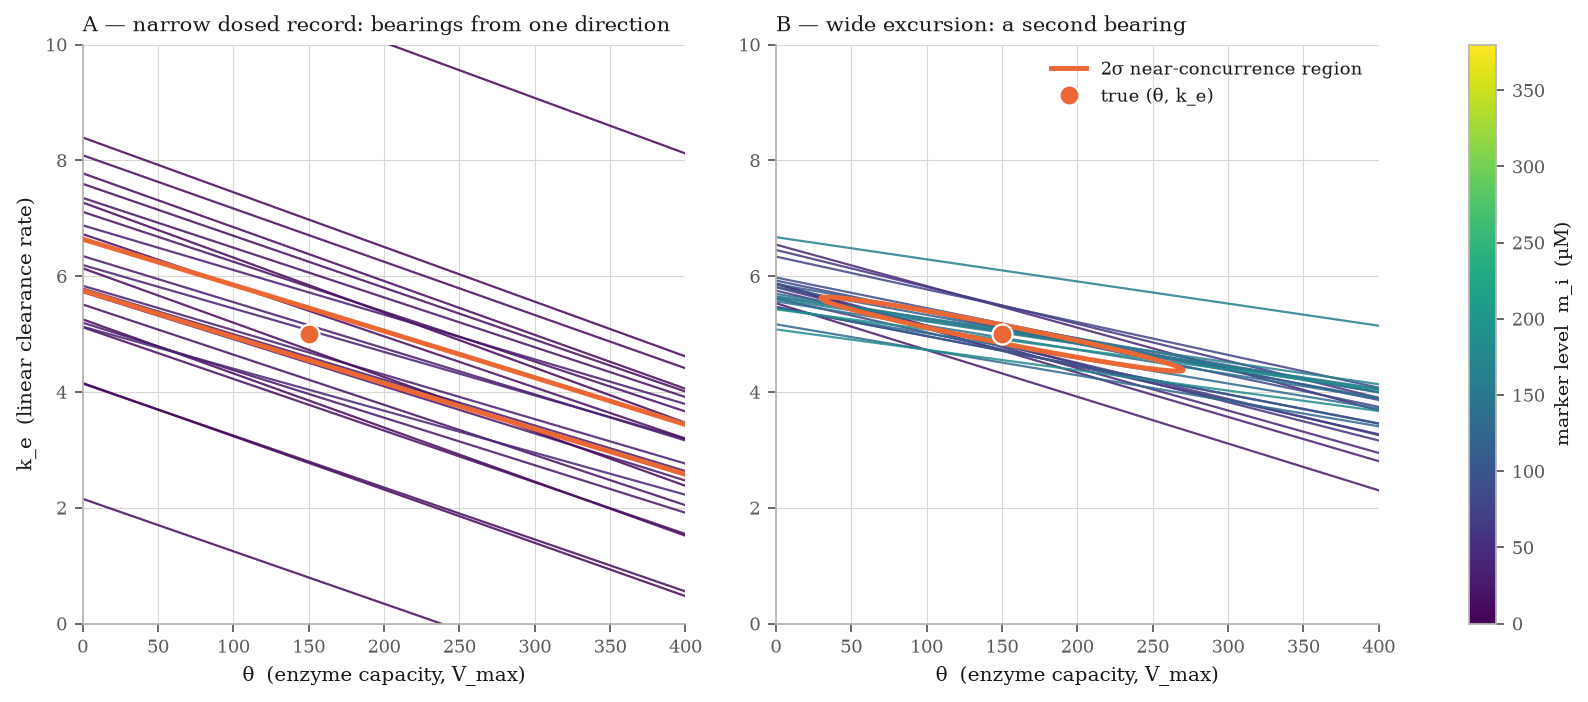
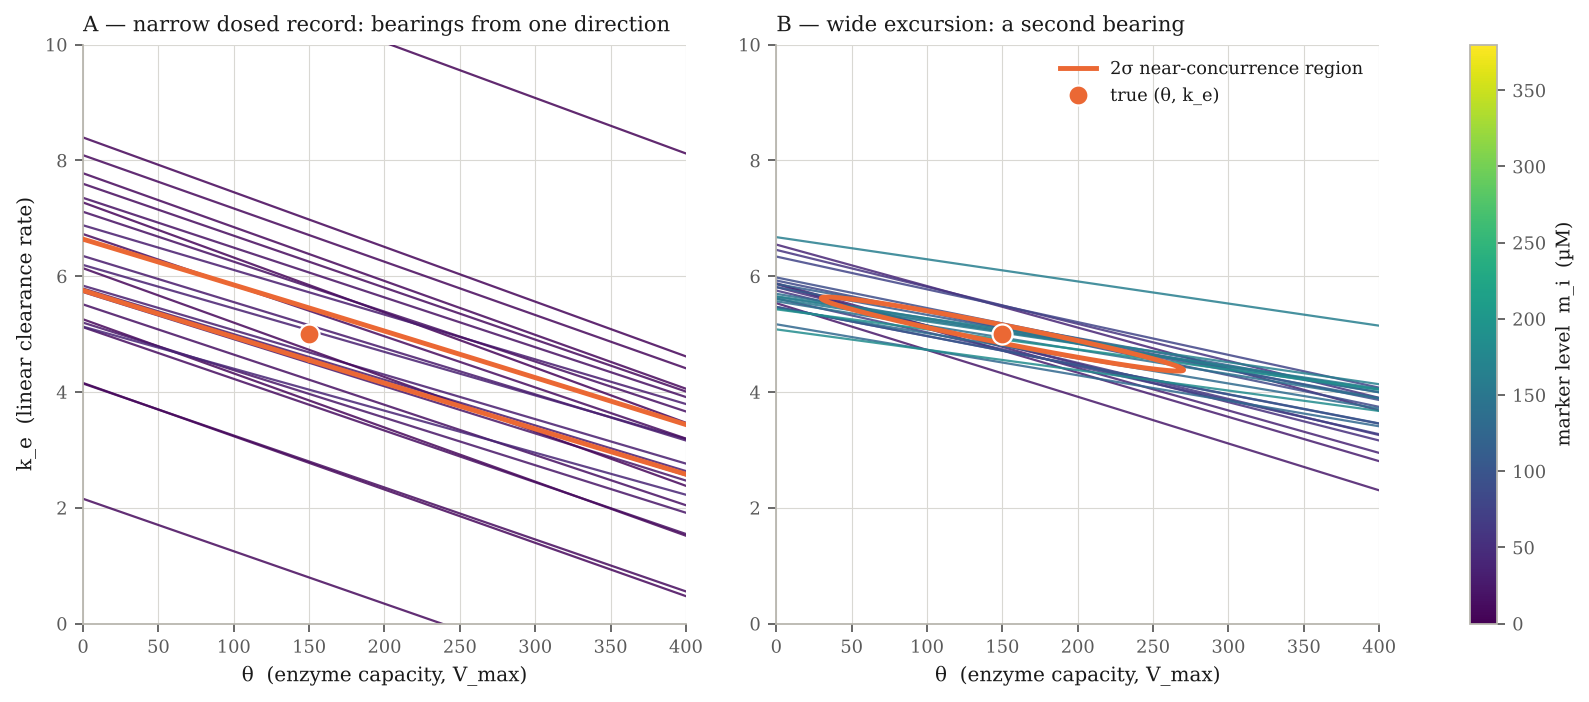
round 19: the 21-day knife-edge depends on Model C's unmeasured shape (t53); repro fixes
R-S (t53_crossing_shape.py): the 3.5452 d crossing is computed at K_c = 100,
which models.py calls ARBITRARY. Carried through the repo's own shape sweeps
(model_C/run.py shape_sensitivity and collapse_check ranges, R0 re-derived),
the 21-day crossing moves 3.30-3.97 d. The measured 3.6 d clears it in 80% of
swept sets and fails at K_c <= 50 or M_i = 150; the 4.3 d liver estimate
clears it in all. 14- and 15-day crossings stay <= 2.96 / 3.11 d, so those
conclusions are unaffected. Changed-claims row, lead-paragraph flag, and the
knife-edge figure title now state the K_c condition.

Reproducibility fixes found while re-running under the README's -W error loop:
- t51_pencil_geometry.py: docstring ASCII art had an invalid escape (\_),
  a SyntaxError under -W error; made it a raw string (output unchanged).
- r18_figs.py: the pencil figure triggered matplotlib's tight-layout warning;
  its gridspec now owns the layout (figure unchanged).

Claude-Session: https://claude.ai/code/session_01G79QbsErESgg1CQtzvtK3x

diff --git a/audit/brief_2026-10-01/t53_crossing_shape.py b/audit/brief_2026-10-01/t53_crossing_shape.py
@@ -1,0 +1,105 @@
+"""
+Round 19: does the 21-day knife-edge survive Model C's unmeasured shape constants?
+
+The 3.5452 d crossing (R-N) is where the 21-day trough increment equals Model C's
+intrinsic critical capacity, theta_crit_int = 150.775 at the repo's constants. That
+threshold depends on three constants of the carnitine channel that nobody has
+measured: K_c (models.py: "ARBITRARY. There is no measurement behind it"), M_i and
+rho_0. The repository already sweeps them (model_C/run.py: shape_sensitivity,
+collapse_check), re-deriving R0 each time so the alternative route still peaks at
+500. It never carried that sweep into the dosing crossing. This script does.
+
+Same-rate trough convention as t44/t48/t50: Delta_trough(tau) = D14 (tau/14) x/(1-x),
+x = exp(-lambda tau), lambda = ln2 / half-life.
+
+Two readings:
+  * the repo's one-at-a-time sweep, each constant over the range it lists;
+  * a joint sweep over the same ranges collapse_check uses (log-uniform K_c and M_i,
+    uniform rho_0). The share of sampled sets in which a half-life clears the line
+    is a SENSITIVITY summary over the admissible box, not a probability: nothing
+    measured puts a distribution on these constants.
+"""
+import sys
+from dataclasses import replace
+from pathlib import Path
+
+import numpy as np
+from scipy.optimize import brentq
+
+sys.path.insert(0, str(Path(__file__).resolve().parents[2] / "src"))
+import model_C.run as MC  # noqa: E402
+
+D14, TAU0 = 6000.0, 14.0
+MEASURED, CENTRAL = 3.6, 4.3
+
+
+def trough(tau, thalf):
+    lam = np.log(2.0) / thalf
+    x = np.exp(-lam * tau)
+    return D14 * (tau / TAU0) * x / (1.0 - x)
+
+
+def crossing(thc, tau=21):
+    """Half-life at which Delta_trough(tau) = theta_crit."""
+    return brentq(lambda t: trough(tau, t) - thc, 0.3, 30.0)
+
+
+def main():
+    base = MC.theta_crit_intrinsic(MC.PC, MC.S_BASE)
+    print("=" * 92)
+    print("  ROUND 19. THE 21-DAY CROSSING UNDER MODEL C'S UNMEASURED SHAPE CONSTANTS")
+    print("=" * 92)
+    print(f"""
+  repo constants (K_c=100, M_i=300, rho_0=0.5): theta_crit_int = {base:.3f}
+    crossing half-life: 14-day {crossing(base, 14):.3f} d   15-day {crossing(base, 15):.3f} d   21-day {crossing(base):.4f} d
+""")
+    print("  ONE AT A TIME (model_C/run.py shape_sensitivity, R0 re-derived each time):")
+    print(f"    {'constant':>8} {'value':>7} {'theta_crit':>10} {'21-d crossing':>13} {'3.6 d clears?':>14} {'4.3 d clears?':>14}")
+    for name, rec in MC.shape_sensitivity().items():
+        for v, tc_cal, _tc_raw, _mg in rec:
+            if not np.isfinite(tc_cal):
+                continue
+            c = crossing(tc_cal)
+            print(f"    {name:>8} {v:>7} {tc_cal:>10.1f} {c:>12.3f}d {('yes' if MEASURED > c else 'NO'):>14}"
+                  f" {('yes' if CENTRAL > c else 'NO'):>14}")
+
+    rng = np.random.default_rng(0)
+    tcs = []
+    for _ in range(300):
+        q = replace(MC.PC, Kc=float(10 ** rng.uniform(1.4, 2.9)),
+                    Mi=float(10 ** rng.uniform(2.0, 3.1)),
+                    rho0=float(rng.uniform(0.35, 1.0)))
+        q = replace(q, R0=MC.R0_for_peak(q))
+        t = MC.theta_crit_intrinsic(q, MC.S_BASE)
+        if np.isfinite(t):
+            tcs.append(t)
+    tcs = np.array(tcs)
+    c14 = np.array([crossing(t, 14) for t in tcs])
+    c15 = np.array([crossing(t, 15) for t in tcs])
+    c21 = np.array([crossing(t) for t in tcs])
+    print(f"""
+  JOINT SWEEP over collapse_check's ranges (K_c 25-794, M_i 100-1259, rho_0 0.35-1.0;
+  {len(tcs)} sets with a finite threshold, seed 0):
+    theta_crit_int           {tcs.min():6.1f} .. {tcs.max():6.1f}   (median {np.median(tcs):.1f})
+    14-day crossing          {c14.min():6.3f} .. {c14.max():6.3f} d
+    15-day crossing          {c15.min():6.3f} .. {c15.max():6.3f} d
+    21-day crossing          {c21.min():6.3f} .. {c21.max():6.3f} d (median {np.median(c21):.3f})
+    sets in which the half-life clears the 21-day line:
+        measured 3.6 d       {np.mean(MEASURED > c21):.0%}
+        liver estimate 4.3 d {np.mean(CENTRAL > c21):.0%}
+    sets in which 3.6 d clears the 14- and 15-day lines: {np.mean(MEASURED > c14):.0%} / {np.mean(MEASURED > c15):.0%}
+
+  READING. The 14- and 15-day conclusions do not depend on Model C's unmeasured
+  shape: their crossings stay below 3.0 and 3.2 d, far under the measured 3.6 d.
+  The 21-day conclusion at 3.6 d does. The crossing itself moves from about 3.3 to
+  4.0 d across the admissible constants, which is wider than the 0.055 d (1.5 %)
+  by which 3.6 d clears the line at K_c = 100. At K_c <= 50, or M_i = 150, the
+  measured 3.6 d falls on the needs-theta side. The liver estimate of 4.3 d clears
+  the line for every sampled set. So the knife-edge has two blades: the true liver
+  half-life, and the carnitine channel's shape constants. The first is a data
+  request; the second is a model assumption no data in the repository can fix.
+""")
+
+
+if __name__ == "__main__":
+    main()

diff --git a/audit/brief_2026-10-01/r18_figs.py b/audit/brief_2026-10-01/r18_figs.py
@@ -55,6 +55,7 @@ def _wls(Q):
 # =============================================================== figure 1
 def fig_pencil():
     fig = plt.figure(figsize=(11.4, 4.7))
+    fig.set_layout_engine("none")       # the colourbar column is laid out by the gridspec
     gs = fig.add_gridspec(1, 3, width_ratios=[1, 1, 0.045], wspace=0.22)
     ax = [fig.add_subplot(gs[0]), fig.add_subplot(gs[1])]
     cax = fig.add_subplot(gs[2])
@@ -162,8 +163,8 @@ def fig_knife():
     ax.set_xlim(3.0, 6.0); ax.set_ylim(-220, 760)
     ax.set_xlabel("PCC protein half-life  (days)")
     ax.set_ylabel("safety margin  μ = Δ_trough(21) − θ_crit  (µM/d)")
-    ax.set_title("The 21-day step turns on the PCC protein half-life; the measured value\n"
-                 "is 1.5 % (in half-life) past the crossing, a +10 µM/d margin",
+    ax.set_title("The 21-day step turns on the PCC protein half-life; the measured value is\n"
+                 "1.5 % (in half-life) past the crossing, +10 µM/d (Model C at its repo constants, K_c = 100)",
                  fontsize=9.5)
     ax.legend(loc="upper left", fontsize=7.8, framealpha=0.92)
     P.finish(ax)

diff --git a/audit/brief_2026-10-01/t51_pencil_geometry.py b/audit/brief_2026-10-01/t51_pencil_geometry.py
@@ -1,4 +1,4 @@
-"""
+r"""
 Round 18: the PI's line-pencil geometry, and what it adds.
 
 Each steady-state draw is a LINE in the (theta, k_e) plane. From the Model-A

diff --git a/audit/brief_2026-10-01/REPORT.md b/audit/brief_2026-10-01/REPORT.md
@@ -67,7 +67,7 @@ This inequality is the whole decision, and it is worth seeing before the measure
 
 ![the 21-day dosing step as a safety margin crossing zero at the PCC protein half-life](fig/r18_knife.png)
 
-The y-axis is the **safety margin** μ = Δ_trough(21) − θ_crit, so the decision is a single **zero crossing**: μ > 0 (**right** of 3.5452 d) books the 21-day interval with **no knowledge of capacity** — the drug trough alone clears θ_crit for any residual θ ≥ 0 — and μ < 0 (**left**) needs θ, which is unmeasurable (the rest of this section). The repo's assumed 3.5 d sits just below zero (margin −8 µM/d); the one measured human value — **3.6 d** (Chandler & Ballard 1985) — sits just above (margin +10 µM/d). The two differ by **0.055 d — 1.5 % in half-life** (the only percentage on the figure is an x-axis, half-life difference, not the vertical margin gap). The compartment-anchored estimate (~4.3 d, R-P) with its 3–6 d bridging band straddles the crossing. That is the whole project in one image: **the decision does not need capacity — it needs this half-life, and the measured value sits ~1.5 % (in half-life) past the threshold that flips it.** Everything else in the report is how that figure was earned — the measurement questions above (why capacity itself is out of reach) and the interval arc that follows (R-J → R-P), which reduces the booking to λ and then measures it.
+The y-axis is the **safety margin** μ = Δ_trough(21) − θ_crit, so the decision is a single **zero crossing**: μ > 0 (**right** of 3.5452 d) books the 21-day interval with **no knowledge of capacity** — the drug trough alone clears θ_crit for any residual θ ≥ 0 — and μ < 0 (**left**) needs θ, which is unmeasurable (the rest of this section). The repo's assumed 3.5 d sits just below zero (margin −8 µM/d); the one measured human value — **3.6 d** (Chandler & Ballard 1985) — sits just above (margin +10 µM/d). The two differ by **0.055 d — 1.5 % in half-life** *(at Model C's K_c = 100; across its unmeasured shape constants the crossing itself moves 3.30–3.97 d, R-S)* (the only percentage on the figure is an x-axis, half-life difference, not the vertical margin gap). The compartment-anchored estimate (~4.3 d, R-P) with its 3–6 d bridging band straddles the crossing. That is the whole project in one image: **the decision does not need capacity — it needs this half-life, and the measured value sits ~1.5 % (in half-life) past the threshold that flips it.** Everything else in the report is how that figure was earned — the measurement questions above (why capacity itself is out of reach) and the interval arc that follows (R-J → R-P), which reduces the booking to λ and then measures it.
 
 *Why this figure leads, and not the identifiability pencil of R-Q: the knife-edge's x-axis is the only quantity in this report that exists and has been measured, while the pencil's axes (θ, k_e) are exactly what the report concludes you cannot and need not measure.*
 
@@ -126,6 +126,7 @@ Several round-1 claims were overturned by later rounds. The causes:
 | "λ half-life 3.5 d gives the decision comfortable margin" (implicit, rounds 11–14 at the assumed value) | **the measured human value (3.6 d) sits on the thresholds, and the correction runs toward them** (round-15, R-N, `t48`): 21-day safe-for-all flips at 3.55 d (round-13's 3.5-d "needs active protocol" → human 3.6-d "free for all", a ~1 % knife-edge); coarse grid clears 3.32 by 8 %; every interval headline flips inside the 3-fold measurement band (1.2–11.5 d), so λ is the dominant model uncertainty *(the "hepatic likely faster" clause reversed by R-P, round 17: mitochondrial-matrix comparator → hepatic ~4.3 d, at/above the thresholds)* | the old 3.5-d guess was luckily near the human value but sat just below the 21-day floor; the real hepatic value (unmeasured) is the single measurement the decision most needs, and the on-therapy record can read it (d′ ≈ 7–18 σ for 3.6 vs 7 d) |
 | "human hepatic PCC likely turns over faster than fibroblast (≤ 3.6 d, toward the thresholds)" (round-15/16, R-N/R-O) | **reversed: hepatic is likely equal or slightly slower, central ~4.3 d, above the crossing** (round-17, R-P, `t50`): PCC is a mitochondrial-**matrix** enzyme, so the apt comparator is the liver-mitochondrial median (4.26 d, Kim 2012), not the whole-liver median (2.4–3.6 d); the fibroblast 3.6 d already sits in the slow tail of its own distribution. P(hepatic < crossing) falls from ~50 % to ~30 % | the earlier steer used the whole-liver median; the compartment-correct comparator runs the correction *away* from the thresholds (21-day step ~65–70 % free-for-all), though the band still straddles |
 | "the on-therapy record reads λ at 7–18 σ, so it settles the two sides of the 3.5452 d crossing a fortiori" (round-16/17, R-O/R-P) | **the a-fortiori runs the wrong way** (round-19, R-R, `t52`): the 7–18 σ is for 3.6 vs 7 d (ln gap 0.665); the crossing is 43× closer to 3.6 d (ln gap 0.015). Per patient the record places a value near 3.6 d on a side at only 0.2–0.6 σ, even after five years of weekly draws. It settles the side only if the true value is clear of the crossing (about 6 months near the 4.3 d central estimate). A pooled estimate needs ~24–77 patients and a λ shared by all of them, which is unmeasured. Overstated **positive**, caught by the round-19 completeness critic. |
+| "the measured 3.6 d clears the 21-day crossing by ~1.5 %" (round-15 onward, R-N, lead figure) | **true only at Model C's K_c = 100** (round-19, R-S, `t53`): K_c, M_i and ρ₀ are unmeasured, and over the repo's own admissible ranges the 21-day crossing moves 3.30–3.97 d. 3.6 d clears it in 80 % of swept sets and fails at K_c ≤ 50 or M_i = 150; the 4.3 d liver estimate clears it in all. The 14- and 15-day conclusions are unaffected (crossings ≤ 3.11 d). Overstated **precision**, found while answering the owner's question about which model the conclusions rest on. |
 
 **A note on the pipeline this table records.** The reversals run in *both* directions. Early rounds overstated **positives** — the ex vivo "0.200" (κ assumed known), the v9 ratio route (estimand conflated), "a k_e sensor reaches the gate" (a low-ceiling point), and "free carnitine identifies θ" (the channel-known prior, not c, round-9→10); one round overstated a **negative** — the v11 "contrast worsens under B" (a sharing bug); and round 12 overstated a **positive** — "21-day lengthening is deliverable for a growing subgroup" — which round 13 reversed on finding the one-sided margin does not resolve under simulation (R-L). That last reversal turned into a **method lesson** (R-M, round 14): a FIM is reliable for a log-scale sd but not for a natural-scale or one-sided decision on a heavy-tailed posterior; the two propagations of that margin disagreed by ~450 µM/d. The audit it prompted re-checked every conclusion that takes the same step — the two load-bearing ones (round-11's determined-subgroup, the cross-sectional headline) survive by simulation, and no hidden favourable correlation feeds an un-simulated optimistic claim. An adversarial-verification pass has caught each error, in both directions, and the corrections (not just the conclusions) are logged here. That the errors go both ways is the reassuring part: the process is not biased toward a preferred answer, positive or negative — it is biased toward whatever survives an independent recomputation. The standing discipline (repo values only, verify every claim, keep this record, read log-scale sds from the FIM and natural-scale decisions from simulation) is what converts a sequence of confident-but-wrong intermediate claims into a conclusion that has been attacked from both sides and held.
 
@@ -1138,6 +1139,22 @@ Round 19 wrote a plain-language account of all eighteen rounds (`story_so_far.ht
 **Per patient, the record never places a 3.6 d truth on a side of the crossing**, at any length or cadence in `t46` (best 0.6 σ). It does settle the side when the truth is clear of the crossing: a 4.3 d truth (R-P's central estimate) is placed at ≥ 2 σ after **6 months** at every cadence. A pooled estimate across patients could place a 3.6 d truth at 2 σ with **~24–77 patients** (77 at monthly draws for a year, 35 at weekly for a year, 24 at weekly for two years), but only if λ is the same in every patient, and nothing measured says it is.
 
 What changes: the two emails are still the right next step, and the on-therapy record is still the best route to a human λ. But the claim that it "settles the knife-edge directly" is now conditional. **It settles the knife-edge only if the true liver half-life is not on it.** If it is near 3.6 d, the honest result is the one the knife-edge figure already shows: under Model C the 21-day step clears by about 1.5 % in half-life, and no single patient's record will confirm or refute that. R-O and R-P are flagged where the claim appeared, and the changed-claims table carries the reversal.
+
+
+### R-S. The knife-edge has a second blade: Model C's unmeasured shape constants (round 19, `t53_crossing_shape.py`)
+
+The 3.5452 d crossing is where the 21-day trough equals Model C's intrinsic critical capacity, θ_crit^int = 151 µM/d. That threshold is computed at K_c = 100, M_i = 300, ρ₀ = 0.5, and `models.py` calls K_c "ARBITRARY. There is no measurement behind it." The repository already sweeps these constants (`model_C/run.py`: `shape_sensitivity`, `collapse_check`), re-deriving R₀ each time so the alternative route still peaks at 500, and finds θ_crit moves by a factor of about 1.4–1.6. No round carried that sweep into the dosing crossing. `t53` does:
+
+| | 14-day crossing | 15-day crossing | 21-day crossing | 3.6 d clears 21 d | 4.3 d clears 21 d |
+|---|---|---|---|---|---|
+| repo constants | 2.62 d | 2.75 d | 3.545 d | yes | yes |
+| K_c 25 → 800 (one at a time) | | | 3.74 → 3.36 d | no at K_c ≤ 50 | yes |
+| M_i 150 → 1200 | | | 3.66 → 3.40 d | no at M_i = 150 | yes |
+| joint sweep, 300 sets over the admissible box | ≤ 2.96 d | ≤ 3.11 d | 3.30–3.97 d (median 3.46) | in 80 % of sets | in 100 % of sets |
+
+(The 80 % is a share of sets swept over the admissible ranges, not a probability; nothing measured puts a distribution on these constants.)
+
+**What holds and what does not.** The 14- and 15-day conclusions do not depend on Model C's shape: their crossings stay below 3.0 and 3.2 d, under the measured 3.6 d in every set. The 21-day conclusion at the measured 3.6 d does depend on it. The threshold moves by about ±10 % across the admissible constants, which is wider than the 1.5 % by which 3.6 d clears it at K_c = 100. **So the knife-edge has two blades:** the true liver half-life, which the two data requests address, and the carnitine channel's shape, which no data in the repository addresses. At the round-17 liver estimate of ~4.3 d the 21-day step clears the line for every sampled set, so if that estimate is right the shape constants stop mattering. The lead figure is drawn at K_c = 100 and its caption now says so.
 
 ---
 

diff --git a/audit/brief_2026-10-01/README.md b/audit/brief_2026-10-01/README.md
@@ -65,6 +65,7 @@ It builds on the repository rather than beside it. The footing (convention A, th
 | `t50_hepatic_mito.py` | round 17: the hepatic correction runs the OTHER way — PCC is mitochondrial-matrix, so the liver-mito median (4.26 d) is the comparator, not whole-liver; central estimate ~4.3 d, ABOVE the crossing. P(hepatic < crossing) ~30 % (not ~50 %), so the 21-day step is ~65–70 % free-for-all, though the band straddles. Also records that the human λ (Gao model) is not public — the on-therapy record is the only accessible route | 1 min |
 | `t51_pencil_geometry.py` | round 18: the PI's line-pencil geometry (each steady-state draw is a line g(m)θ+m·k_e=L in the (θ,k_e) plane) and what it adds — the near-concurrence region IS the fixed-K_m FIM ellipse, the −0.99 IS near-parallelism, Prop 1's affine degeneracy IS the narrow-band slope collapse, the K_m family IS Remark 2's fibre; plus (2) a model-free uncertainty from pairwise-intersection scatter (heavy-tailed, a third route to the round-13/14 tail), (3) a concurrency χ² adequacy test (calibrated, power vs a biased load, blind to a second channel), (4) Remark 6's TLS weighting reproduces the FIM/MLE | 1 min |
 | `t52_knife_resolution.py` | round 19: can the on-therapy record settle which side of the 3.5452 d crossing a patient is on? Per patient, only if the true half-life is clear of it (a 4.3 d truth is placed at ≥2σ in 6 months); a 3.6 d truth is never placed (≤0.6σ even after 5 years weekly). Corrects R-O/R-P's "a fortiori". Reads t46's sd(ln λ) table | 1 s |
+| `t53_crossing_shape.py` | round 19: the 21-day crossing under Model C's unmeasured shape constants (K_c, M_i, ρ₀; R0 re-derived as the repo does). The crossing moves 3.30–3.97 d over the admissible box; the measured 3.6 d clears it in 80 % of swept sets (fails at K_c ≤ 50), the 4.3 d liver estimate in all; 14- and 15-day steps unaffected | 1 min |
 | `story_figs.py` | round 19: the two plain-language charts for `story_so_far.html` (every route to capacity on one scale; how long to wait) | 10 s |
 | `r18_figs.py` | round 18 figures: (1) the pencil in (θ,k_e) — narrow (near-parallel smear) vs wide excursion (concurs), on shared axes, lines coloured by m_i, with the slope-identity inset; (2) the K_m fibre; (3) the knife-edge — safety margin μ=Δ_trough(21)−θ_crit vs PCC protein half-life, crossing zero at 3.5452 d, assumed 3.5 d (−8 µM/d) / measured 3.6 d (+10 µM/d) / 3–6 d band; 1.5 % is a half-life gap (the report's lead figure) | 1 min |
 | `r3_figs.py` | round 3 figures (flux contour, k_e×sampling, asymptote, excursion/safety) | 2 min |
@@ -82,7 +83,7 @@ for s in t0_footing t1_identifiability t2_cohort t3_variance t4_set t5_value t7_
          t18_set_id t19_residuals t20_saturation t21_sensitivity t22_longitudinal t23_antibiotic t24_contrast_stress t25_drug_cv_marker t26_multiobservable t27_exvivo_kappa t28_ratio_route \
          t29_mapping_scatter t30_monitoring_confounders t31_breath_contrast t32_massbalance \
          t33_model_b t34_breath_stress t35_managed_load t36_reconcile_remark15 \
-         t37_contrast_audit t38_model_dependent t39_affine_check t40_kepoint_robustness t41_model_c t42_serial_cv t43_plasma_pool t44_interval_decision t45_on_therapy t46_timing t47_fim_audit t48_lambda_literature t49_hepatic_bridge t50_hepatic_mito t51_pencil_geometry t52_knife_resolution; do
+         t37_contrast_audit t38_model_dependent t39_affine_check t40_kepoint_robustness t41_model_c t42_serial_cv t43_plasma_pool t44_interval_decision t45_on_therapy t46_timing t47_fim_audit t48_lambda_literature t49_hepatic_bridge t50_hepatic_mito t51_pencil_geometry t52_knife_resolution t53_crossing_shape; do
   python -W error $s.py > out/$s.txt
 done
 python -W error r3_figs.py    # round-3 figures
